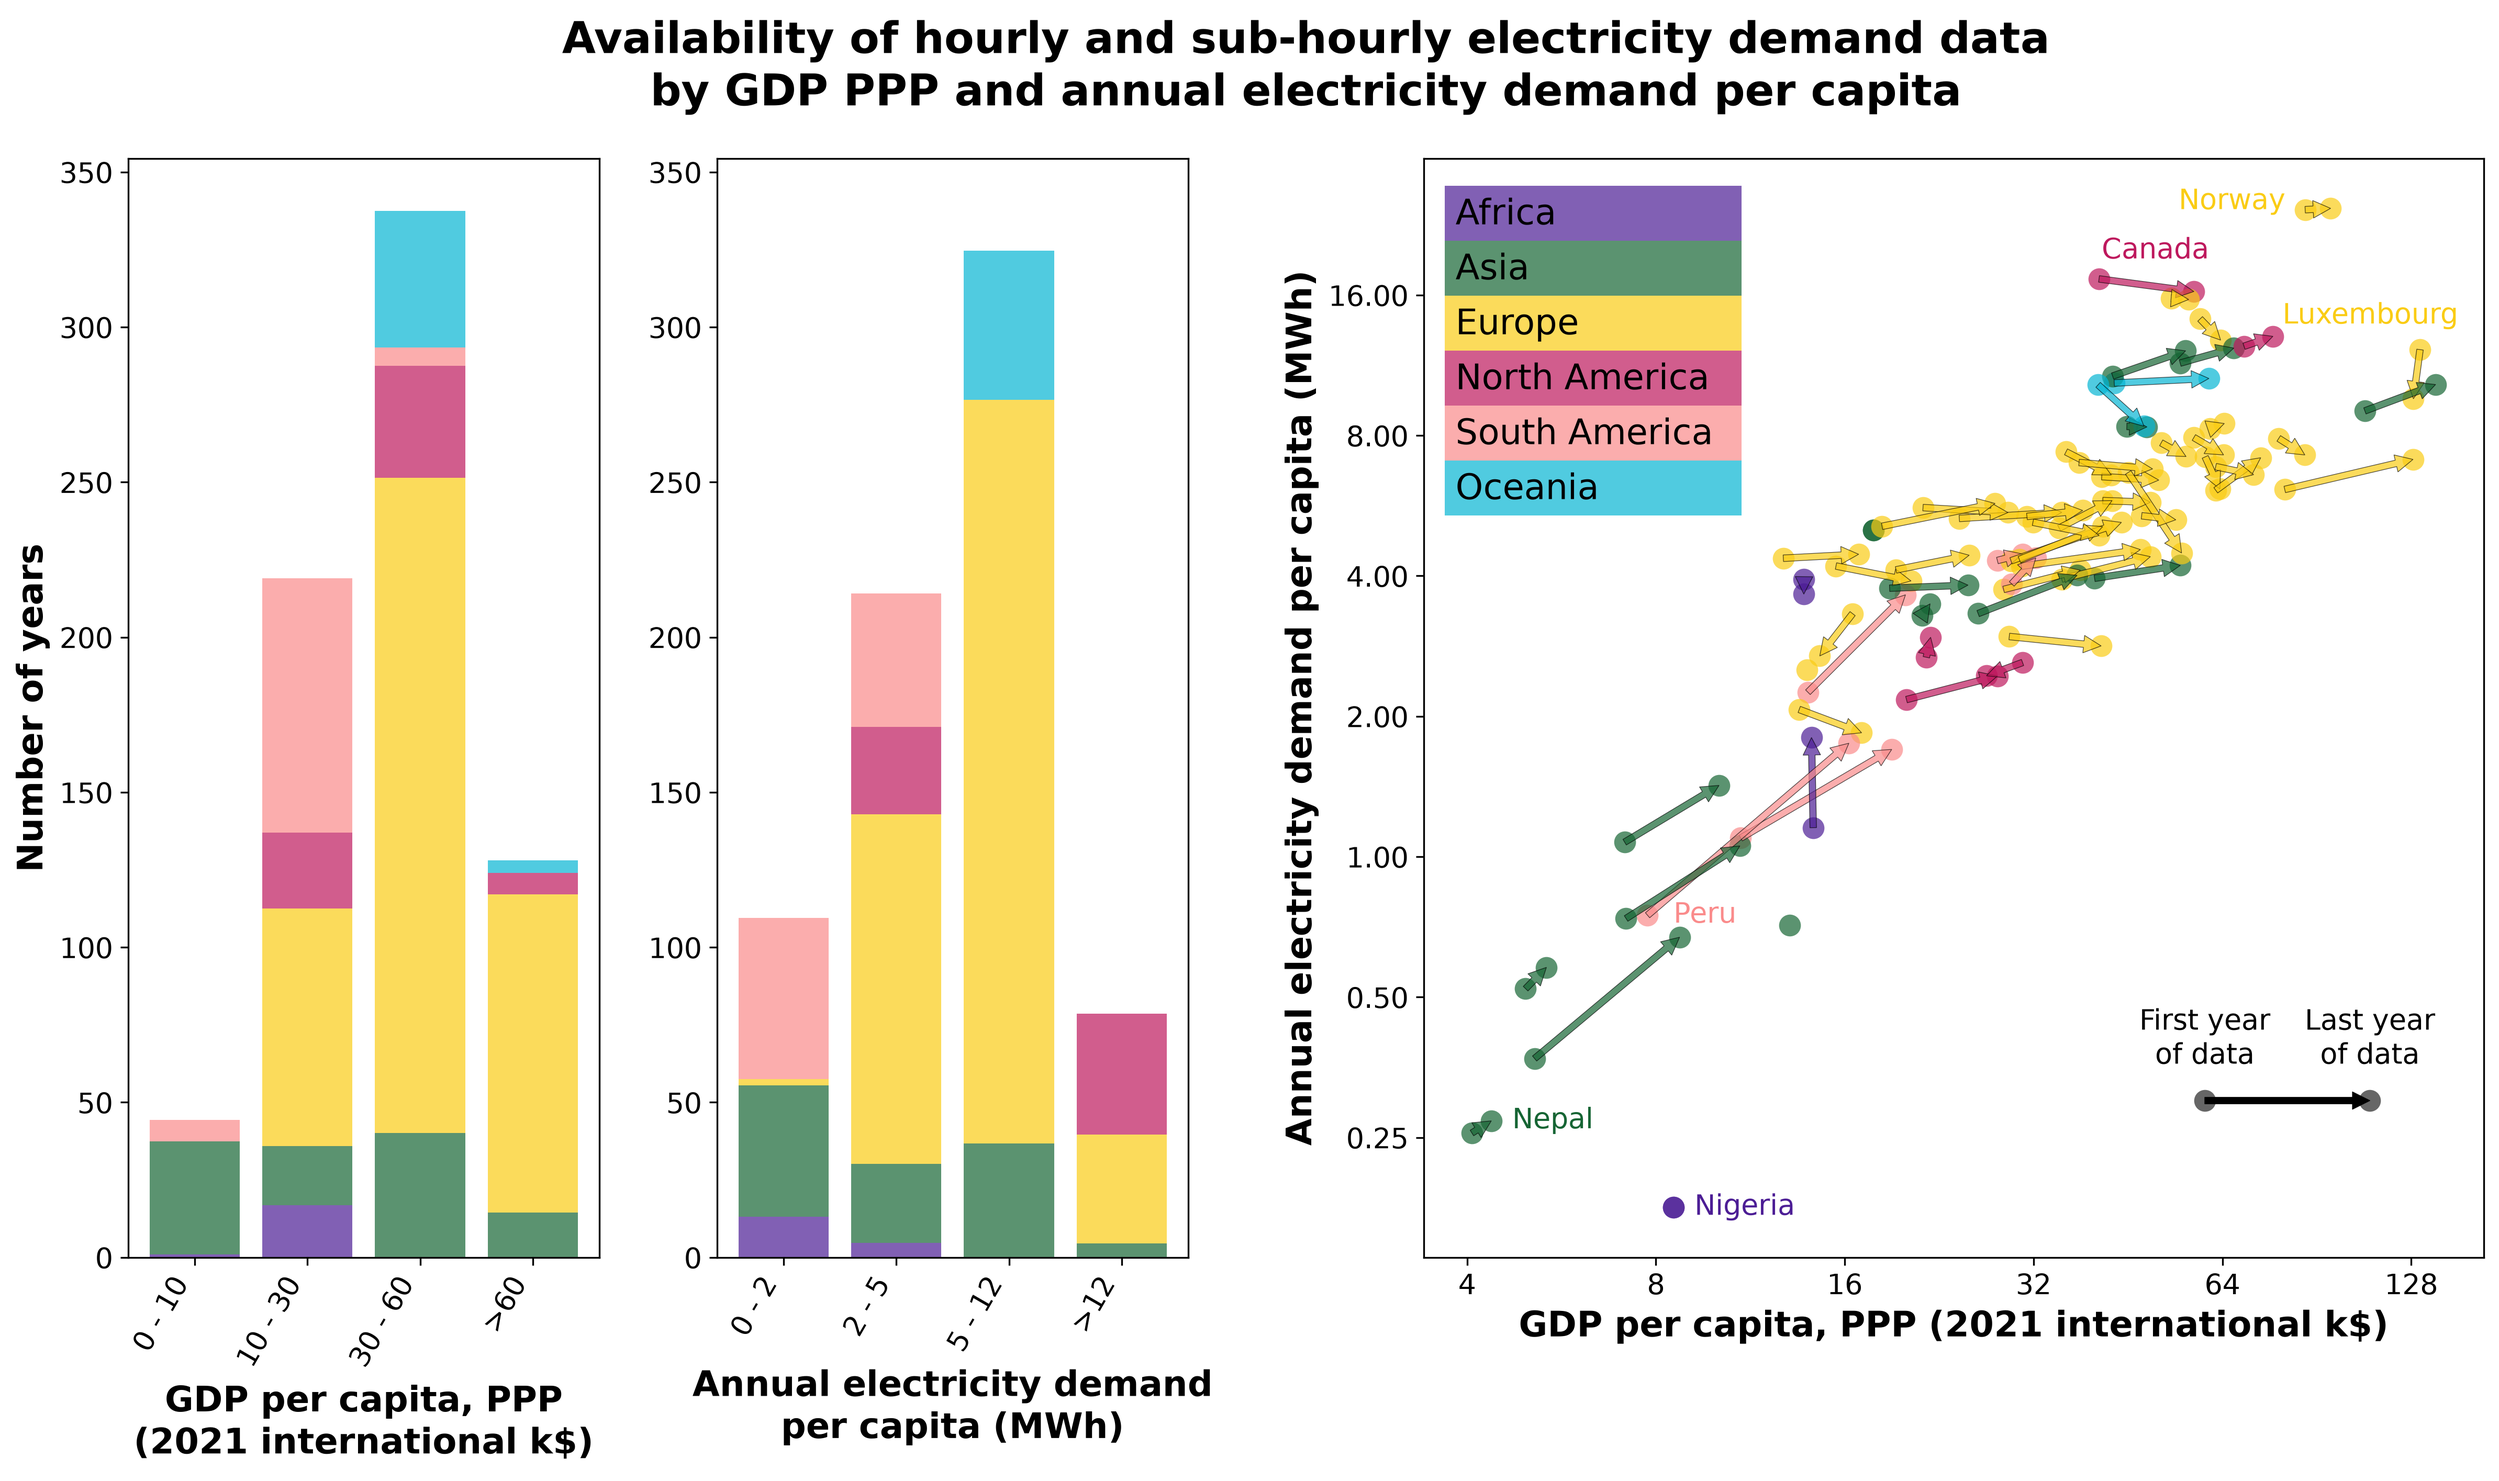
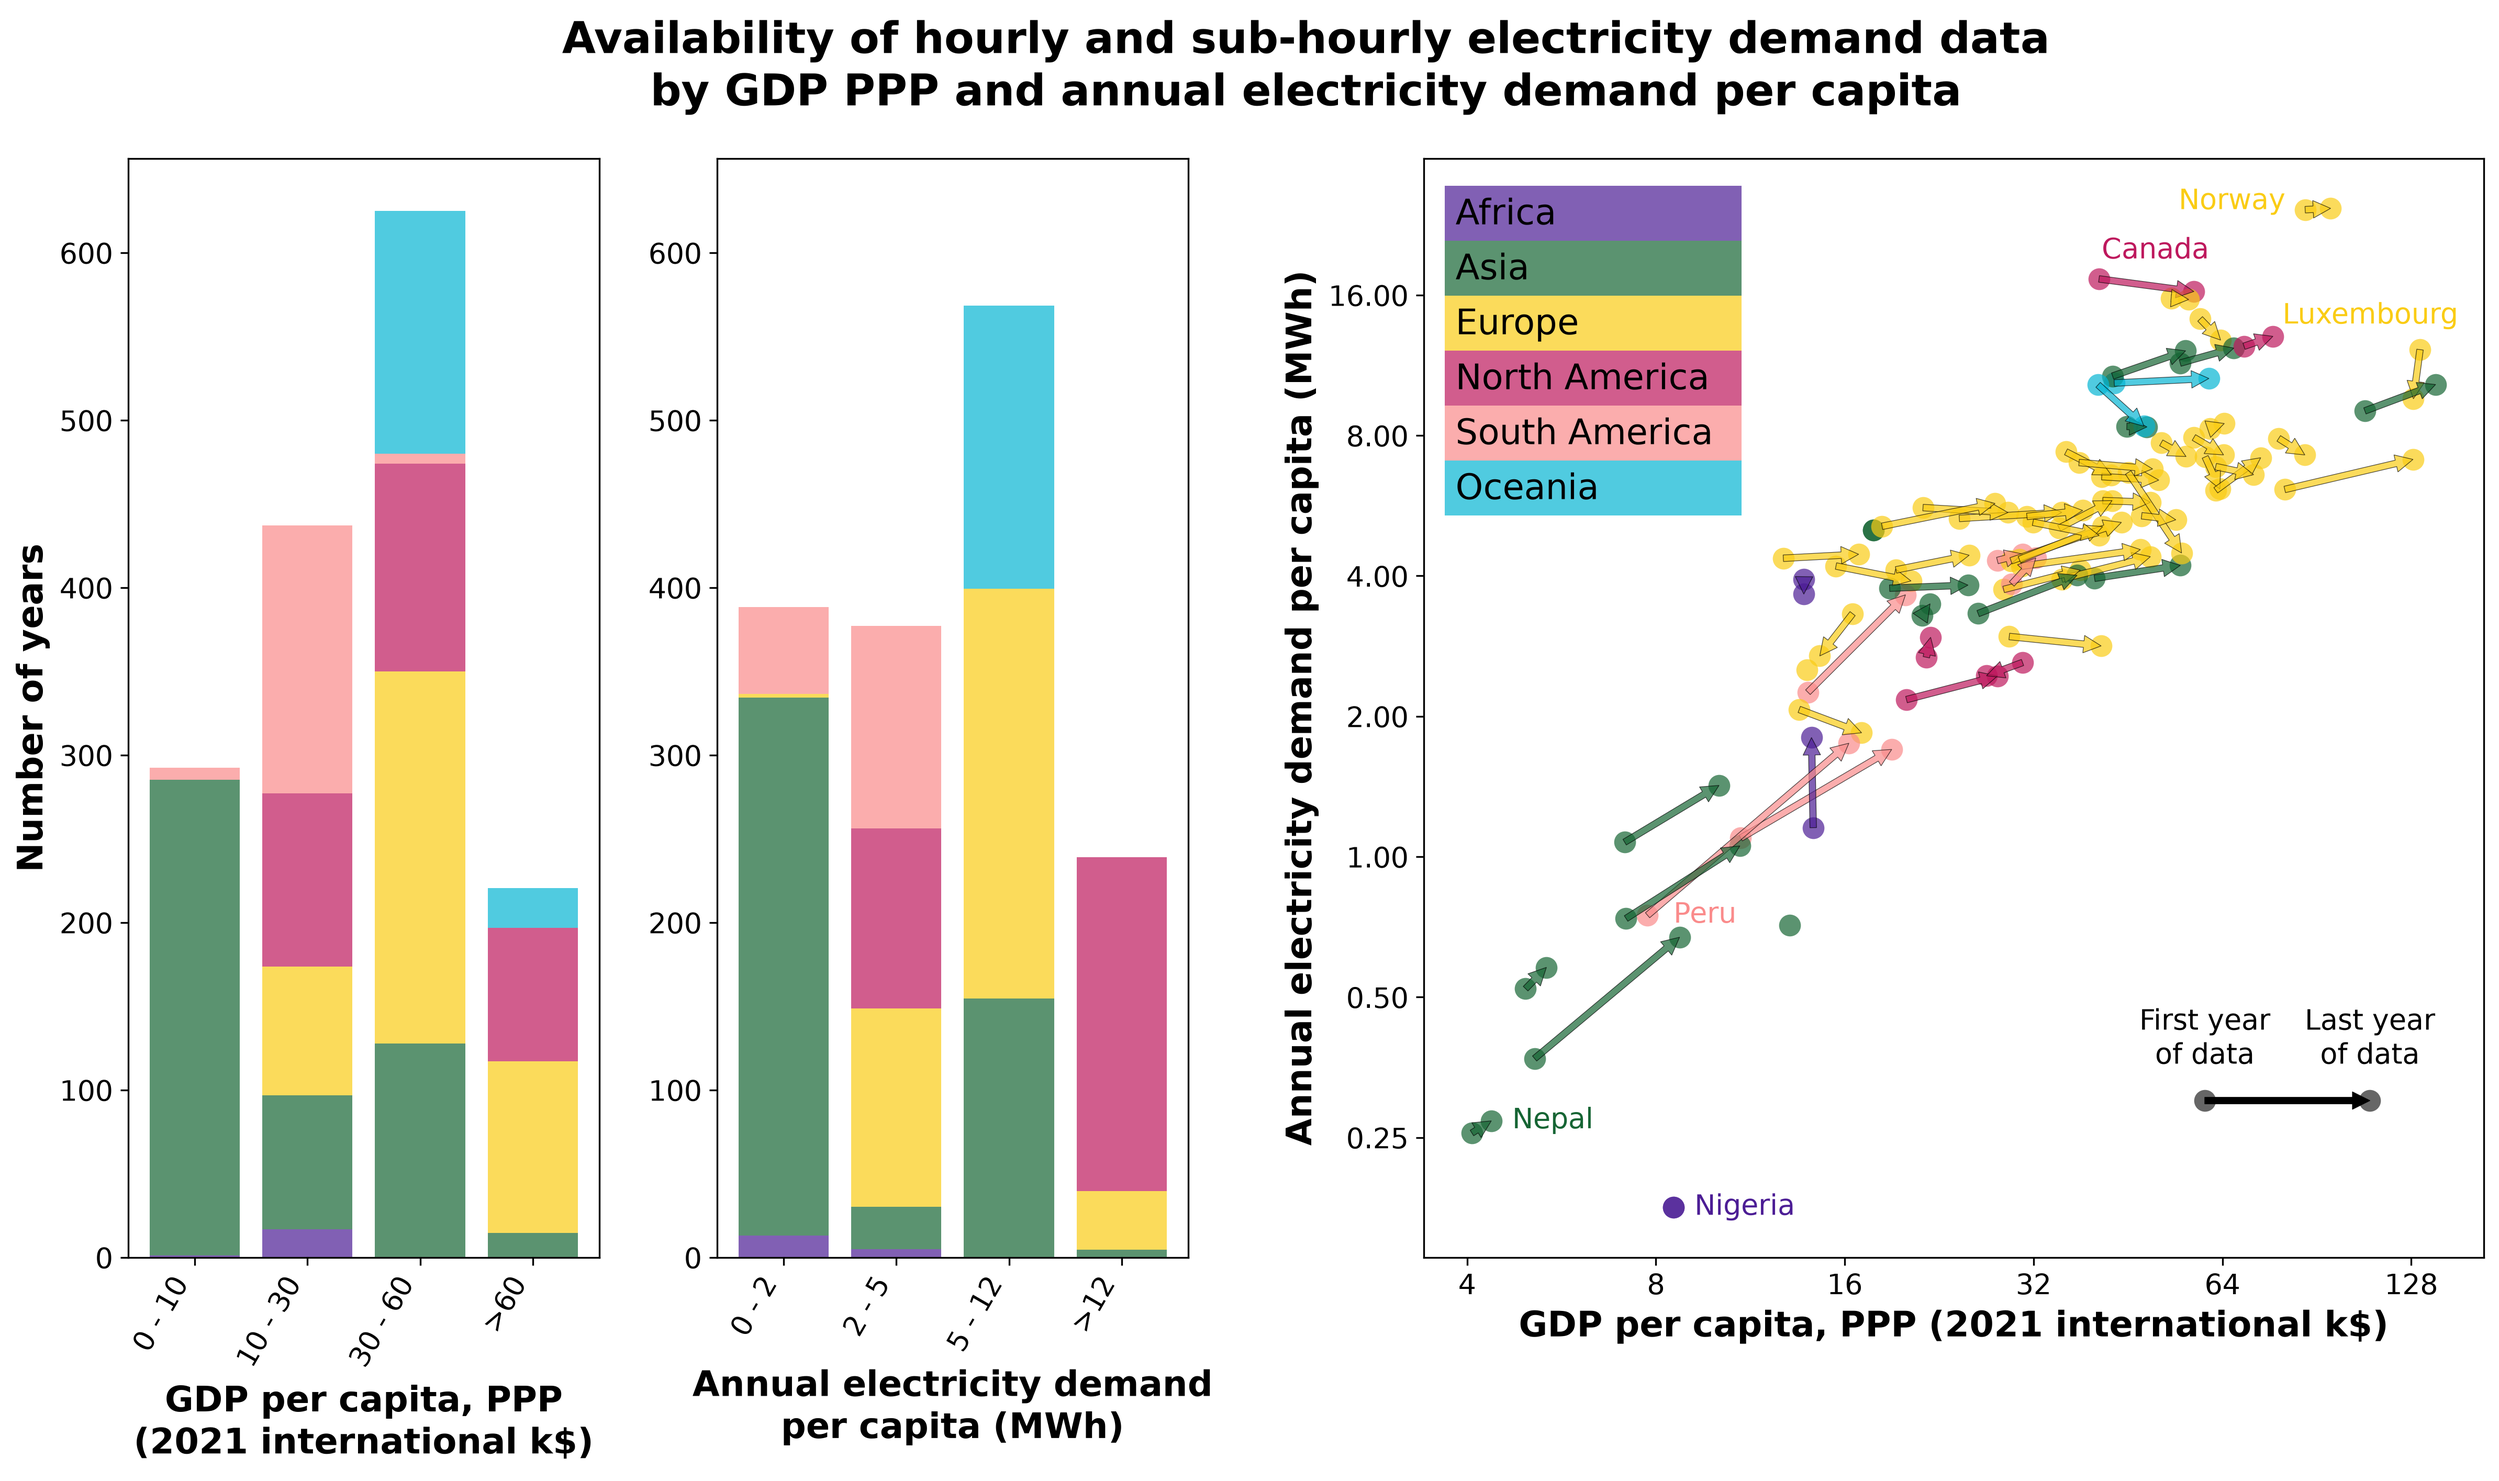
fix(figures): count the years of every code in the data availability
The bar charts count the years of each country and of each subdivision,
with the GDP PPP and annual demand per capita of its country, instead
of the years of each country once. The arrows still show each country.

diff --git a/demandcast/figures/data_availability.py b/demandcast/figures/data_availability.py
@@ -9,9 +9,12 @@ Description:
     Ember, the World Bank and the IMF to visualize the coverage of
     electricity demand data across different countries and continents.
 
-    Each country counts each of its years of data once, whether the data
-    is its own or that of its subdivisions, so that a country with many
-    subdivisions weighs as much as the others.
+    The bar charts count the years of data of each country and of each
+    subdivision, with the GDP PPP and the annual electricity demand per
+    capita of its country, since the subdivisions with data are large
+    systems, often as large as a whole country. The arrows show each
+    country once, from the first to the last year of its own data or of
+    that of its subdivisions.
 """
 
 import dataclasses
@@ -71,22 +74,21 @@ def _get_year_fractions(
     codes_of_countries: dict[str, list[str]],
 ) -> dict[str, dict[int, float]]:
     """
-    Get the fractions of the years of each country with data.
+    Get the fractions of the years of groups of codes with data.
 
-    A day of a country has data if its own data or that of one of its
-    subdivisions covers it, so that each year of a country counts once,
-    however many subdivisions have data.
+    A day of a group has data if the data of one of its codes covers it,
+    such as a country with its own data or that of its subdivisions.
 
     Parameters
     ----------
     codes_of_countries : dict[str, list[str]]
-        The codes with data of each country, its own and those of its
-        subdivisions, by its ISO alpha-3 code.
+        The codes with data of each group, such as the codes of a
+        country, its own and those of its subdivisions, by its name.
 
     Returns
     -------
     dict[str, dict[int, float]]
-        The fraction of each year with data, by year, of each country.
+        The fraction of each year with data, by year, of each group.
     """
     data_time_ranges = utils.data_sources.read_all_date_ranges()
 
@@ -408,11 +410,11 @@ class FigureData:
     Attributes
     ----------
     gdp_occurrence : dict[str, dict[str, float]]
-        The years of data of the countries of each continent in each
-        level of GDP PPP per capita.
+        The years of data of the countries and subdivisions of each
+        continent in each level of GDP PPP per capita.
     electricity_demand_occurrence : dict[str, dict[str, float]]
-        The years of data of the countries of each continent in each
-        level of annual electricity demand per capita.
+        The years of data of the countries and subdivisions of each
+        continent in each level of annual electricity demand per capita.
     gdp_points : dict[str, pandas.Series]
         The GDP PPP per capita of the first and last years of data of
         each country, of its own data or of that of its subdivisions.
@@ -433,10 +435,10 @@ def get_data() -> FigureData:
     """
     Get the data of the figure of the availability of the data.
 
-    The years of electricity demand data of each country, of its own
-    data or of that of its subdivisions, are counted once, by continent
-    and by level of GDP PPP and of annual electricity demand per capita,
-    from Ember, the World Bank and the IMF.
+    The years of electricity demand data of each country and of each
+    subdivision are counted by continent and by level of GDP PPP and of
+    annual electricity demand per capita of its country, from Ember, the
+    World Bank and the IMF.
 
     Returns
     -------
@@ -444,36 +446,42 @@ def get_data() -> FigureData:
         The data of the figure.
     """
     # Read the codes of all countries and subdivisions, by country, and
-    # the continent and the fractions of the years of data of each
-    # country.
+    # the continent and the fractions of the years of data of each code.
     codes = utils.data_sources.read_all_codes_with_electricity_demand_data()
     codes_of_countries: dict[str, list[str]] = {}
     for code in codes:
         codes_of_countries.setdefault(code.split("_")[0], []).append(code)
     countries = list(codes_of_countries)
     continent_codes = {
-        country: utils.codes.get_continent_code(country)
-        for country in countries
+        code: utils.codes.get_continent_code(code.split("_")[0])
+        for code in codes
     }
-    fractions_of_years = _get_year_fractions(codes_of_countries)
+    fractions_of_years = _get_year_fractions({code: [code] for code in codes})
     available_years = {
-        country: list(fractions_of_years[country]) for country in countries
+        code: list(fractions) for code, fractions in fractions_of_years.items()
     }
 
     # Get the electricity demand data from Ember and the World Bank,
-    # and the GDP PPP per capita data from the World Bank and the IMF.
+    # and the GDP PPP per capita data from the World Bank and the IMF,
+    # those of its country for a subdivision.
     electricity_data = _get_electricity_demand_per_capita(
-        countries, available_years
+        codes, available_years
     )
-    gdp_data = _get_gdp_ppp_per_capita(countries, available_years)
+    gdp_data = _get_gdp_ppp_per_capita(codes, available_years)
 
-    # Get the first and last years of data of each country, in the years
-    # with both values.
+    # Get the first and last years of data of each country, of its own
+    # data or of that of its subdivisions, in the years with both
+    # values.
     gdp_points = {}
     electricity_demand_points = {}
     for country in countries:
-        country_gdp = gdp_data[country][country]
-        country_electricity = electricity_data[country][country]
+        country_gdp, country_electricity = (
+            pd.concat(list(data[country].values()))
+            .groupby(level=0)
+            .first()
+            .sort_index()
+            for data in (gdp_data, electricity_data)
+        )
         common_index = country_gdp.index.intersection(
             country_electricity.index
         )
@@ -487,7 +495,7 @@ def get_data() -> FigureData:
     return FigureData(
         gdp_occurrence=_get_occurrences(
             gdp_data,
-            countries,
+            codes,
             continent_codes,
             CONTINENT_NAMES,
             fractions_of_years,
@@ -495,7 +503,7 @@ def get_data() -> FigureData:
         ),
         electricity_demand_occurrence=_get_occurrences(
             electricity_data,
-            countries,
+            codes,
             continent_codes,
             CONTINENT_NAMES,
             fractions_of_years,
@@ -503,7 +511,10 @@ def get_data() -> FigureData:
         ),
         gdp_points=gdp_points,
         electricity_demand_points=electricity_demand_points,
-        continents=continent_codes,
+        continents={
+            country: utils.codes.get_continent_code(country)
+            for country in countries
+        },
     )
 
 

diff --git a/demandcast/tests/figures/test_data_availability.py b/demandcast/tests/figures/test_data_availability.py
@@ -94,8 +94,9 @@ def test_get_data(synthetic_data):
     """
     Test the counts of years and the first and last points.
 
-    A country with a subdivision counts the days of either once, and its
-    points are those of its first and last years of data.
+    Each code counts its own years, with the data of its country, and
+    the points of a country are those of the first and last years of its
+    own data or of that of its subdivisions.
     """
     data = data_availability.get_data()
 
@@ -116,17 +117,18 @@ def test_get_data(synthetic_data):
         synthetic_data.loc["CAN", [2015, 2023]].tolist()
     )
     assert data.continents["CAN"] == "NA"
+    # The years of Canada and those of Ontario both count in North
+    # America.
     fractions = data_availability._get_year_fractions(
-        {"CAN": ["CAN", "CAN_ON"]}
-    )["CAN"]
-    assert list(fractions) == list(range(2015, 2024))
-    assert fractions[2016] == 1.0
-    assert sum(data.gdp_occurrence["NA"].values()) == pytest.approx(
-        sum(fractions.values())
+        {"CAN": ["CAN"], "CAN_ON": ["CAN_ON"]}
     )
+    assert list(fractions["CAN_ON"]) == list(range(2015, 2024))
+    assert fractions["CAN_ON"][2016] == 1.0
+    years = sum(fractions["CAN"].values()) + sum(fractions["CAN_ON"].values())
+    assert sum(data.gdp_occurrence["NA"].values()) == pytest.approx(years)
     assert sum(
         data.electricity_demand_occurrence["NA"].values()
-    ) == pytest.approx(sum(fractions.values()))
+    ) == pytest.approx(years)
 
 
 def test_plot(tmp_path):

diff --git a/webpage/docs/status.md b/webpage/docs/status.md
@@ -11,7 +11,7 @@ The map shows the countries and subdivisions for which retrieval modules of elec
 ![Countries and subdivisions for which retrieval modules of electricity demand data are available](status/available_entities_light_mode.png#only-light)
 ![Countries and subdivisions for which retrieval modules of electricity demand data are available](status/available_entities_dark_mode.png#only-dark)
 
-The figure below shows the years of data by GDP PPP per capita and by annual electricity demand per capita, by continent, and how they changed in each country between its first and last year of data. It shows which kinds of countries the training data covers, and therefore where the models extrapolate when they forecast the demand of the countries without data.
+The figure below shows the years of data of the countries and subdivisions by GDP PPP per capita and by annual electricity demand per capita of their country, by continent, and how these changed in each country between its first and last year of data. It shows which kinds of countries the training data covers, and therefore where the models extrapolate when they forecast the demand of the countries without data.
 
 ![Years of hourly and sub-hourly electricity demand data by GDP PPP and annual electricity demand per capita](status/data_availability_by_gpd_ppp_and_electricity_demand.png)
 
